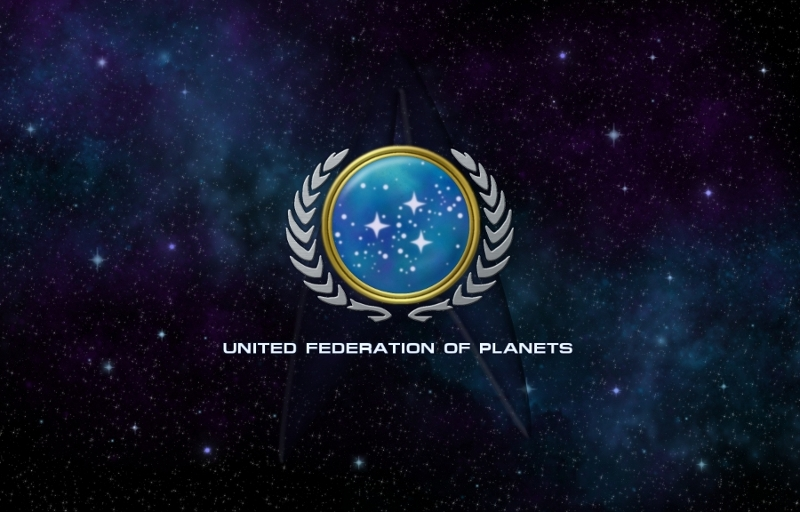
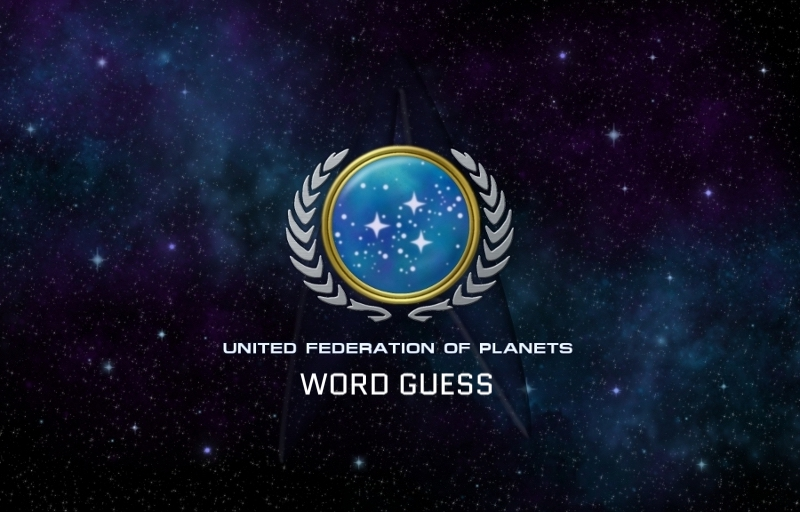
added 10 more Q&A categories. Complete and functioning

Changed region(s): [[0.375, 0.7188, 0.625, 0.7812]]

diff --git a/assets/javascript/game.js b/assets/javascript/game.js
@@ -1,8 +1,10 @@
 //computer choices for words
-var answers = ["annika", "spot", "picard", "pike", "bones", "roddenberry", "futile", "baseball", "doctor", "coffee"];
+var answers = ["annika", "spot", "picard", "pike", "bones", "roddenberry", "futile", "baseball", "doctor", "coffee", "vulcans", "sanfrancisco", "tiberius", "captainproton", "acquisition", "tribbles", "klingon", "chocolate", "quark", "trill"];
 
 var questions = ["What is Seven of Nine's human name?", "What is Data name his cat?", "What is the last name of the Captain of the Enterprise-D?", "Who was the first captain to appear in the Star Trek franchise? (Hint: Currently on Discovery)", "What is Dr. Leonard McCoy's nickname?",
-    "Star Trek creator: Gene _______________ ", "We are borg. Resistance is ___________. Prepare to be Assimilated.", "What is Benjamin Sisko's favorite sport?", "What is the name of the EMH (Emergency Medical Hologram) on Voyager?", "Famous quote by Kathryn Janeway: 'Theres ________ in that nebula!'"];
+    "Star Trek creator: Gene _______________ ", "We are borg. Resistance is ___________. Prepare to be Assimilated.", "What is Benjamin Sisko's favorite sport?", "What is the name of the EMH (Emergency Medical Hologram) on Voyager?", "Famous quote by Kathryn Janeway: 'Theres ________ in that nebula!'",
+    "Which alien race made first contact with Earth?", "In what city is Starfleet Command located?", "What does the 'T' in James T. Kirk stand for?", "Tom Paris writes a black and white superhero holonovel. Who is the protagonist?", "Ferengi abide by the 'Rule of ____________'", "Famous episode 'The Trouble with _________'",
+    "Which Star Trek language is most popularly used IRL?", "What is Deanna Troi's comfort food?", "Who is the bartender on Deep Space Nine?", "Which human species lives symbiotically with a wise, long-lived creature called a symbiant?"];
 
 //global variables
 var computerGuess = "";
@@ -91,6 +93,66 @@ function wordGuess() {
         document.getElementById("image").src = "assets/images/janeway.jpg";
     }
 
+    //vulcans
+    else if (computerGuess === answers[10]) {
+        document.getElementById("questions").innerHTML = " " + questions[10];
+        document.getElementById("image").src = "assets/images/vulcan.jpg";
+    }
+
+    //san francisco
+    else if (computerGuess === answers[11]) {
+        document.getElementById("questions").innerHTML = " " + questions[11];
+        document.getElementById("image").src = "assets/images/san-francisco.jpg";
+    }
+
+    //tiberius
+    else if (computerGuess === answers[12]) {
+        document.getElementById("questions").innerHTML = " " + questions[12];
+        document.getElementById("image").src = "assets/images/kirk.jpg";
+    }
+
+    //captain proton
+    else if (computerGuess === answers[13]) {
+        document.getElementById("questions").innerHTML = " " + questions[13];
+        document.getElementById("image").src = "assets/images/captain-proton.jpg";
+    }
+
+    //acquisition
+    else if (computerGuess === answers[14]) {
+        document.getElementById("questions").innerHTML = " " + questions[14];
+        document.getElementById("image").src = "assets/images/acquisition2.jpg";
+    }
+
+    //tribbles
+    else if (computerGuess === answers[15]) {
+        document.getElementById("questions").innerHTML = " " + questions[15];
+        document.getElementById("image").src = "assets/images/tribbles.jpg";
+    }
+
+    //klingon
+    else if (computerGuess === answers[16]) {
+        document.getElementById("questions").innerHTML = " " + questions[16];
+        document.getElementById("image").src = "assets/images/klingon.jpg";
+    }
+
+    //chocolate
+    else if (computerGuess === answers[17]) {
+        document.getElementById("questions").innerHTML = " " + questions[17];
+        document.getElementById("image").src = "assets/images/troi.jpg";
+    }
+
+    //quark
+    else if (computerGuess === answers[18]) {
+        document.getElementById("questions").innerHTML = " " + questions[18];
+        document.getElementById("image").src = "assets/images/quark.jpg";
+    }
+
+    //trill
+    else if (computerGuess === answers[19]) {
+        document.getElementById("questions").innerHTML = " " + questions[19];
+        document.getElementById("image").src = "assets/images/dax.jpg";
+    }
+
 }
 //call game function
 wordGuess()
@@ -153,13 +215,13 @@ function end() {
         wordGuess()
     }
 
-    console.log('Letters played', lettersPlayed);
+    //console.log('Letters played', lettersPlayed);
 
 
     //adding to the DOM
     document.getElementById("underscores").innerHTML = underscore.join(" ");
     document.getElementById("guessesRemaining").innerHTML = " " + guessesRemaining;
-    document.getElementById("alreadyPlayed").innerHTML = " " + lettersPlayed.join(" ");
+    document.getElementById("lettersPlayed").innerHTML = " " + lettersPlayed.join(" ");
 
 }
 

diff --git a/index.html b/index.html
@@ -7,7 +7,7 @@
     <title>Star Trek Word Guess</title>
     <!-- Style Sheets -->
     <link rel="stylesheet" type="text/css" href="assets/css/style.css">
-    <link rel="stylesheet" <!--link rel="stylesheet" type="text/css" href="assets/css/reset.css" -->
+    <!--<link rel="stylesheet" rel="stylesheet" type="text/css" href="assets/css/reset.css"-->
     <link rel="stylesheet" href="https://stackpath.bootstrapcdn.com/bootstrap/4.4.1/css/bootstrap.min.css"
         integrity="sha384-Vkoo8x4CGsO3+Hhxv8T/Q5PaXtkKtu6ug5TOeNV6gBiFeWPGFN9MuhOf23Q9Ifjh" crossorigin="anonymous">
     <link href="https://fonts.googleapis.com/css2?family=Orbitron:wght@600&family=Raleway&display=swap"
@@ -18,7 +18,7 @@
     <!-- HEADER-->
     <header class="container">
         <div class="col-lg-12 d-flex justify-content-center">
-            <img src="assets/images/federation.jpg">
+            <img src="assets/images/federation.jpg" width="800px" height="325px">
         </div>
         <div class="row d-flex justify-content-center border-1">
             <h2 class="text-center md-2">PRESS ANY KEY TO ENGAGE</h2>
@@ -29,6 +29,15 @@
     <div class="container">
         <div class="row mt-2">
 
+            <!-- HINTS -->
+            <div class="col text-center">
+                Clues:
+                <br>
+                <img id="image" src="assets/images/">
+                <div id="questions"></div>
+            </div>
+
+    <!--PLAYING BOARD-->
             <div class="col-sm-6 text-center">
                 <div>Current Word:</div>
                 <div id="underscores"></div>
@@ -36,13 +45,16 @@
                 <div>
                     Guesses Remaining:
                     <div id="guessesRemaining"></div>
+                    <br>
                 </div>
                 Letters Played:
-                <div id="alreadyPlayed"></div>
+                <div id="lettersPlayed"></div>
+                <br>
                 <div>
                     Wins:
                     <div id="wins"></div>
                 </div>
+                <br>
                 <div>
                     Losses:
                     <p id="losses"></p>
@@ -50,14 +62,7 @@
                 <br>
             </div>
 
-            <!-- HINTS -->
-            <div class="col text-center">
-                Clues:
-                <br>
-                <img id="image" src="assets/images/">
-                <div id="questions"></div>
 
-            </div>
         </div>
     </div>
 

diff --git a/assets/css/style.css b/assets/css/style.css
@@ -4,10 +4,9 @@ body {
 
 .container {
     font-family: 'Orbitron', sans-serif;
-    font-size: 20px;
+    font-size: 18px;
     font-weight: bolder;
     color: white;
-    overflow: auto;
 }
 
 .responsive {
@@ -19,6 +18,6 @@ body {
 
 #underscores {
     text-align:center;
-    font-size: 30px;
+    font-size: 24px;
 }
 
